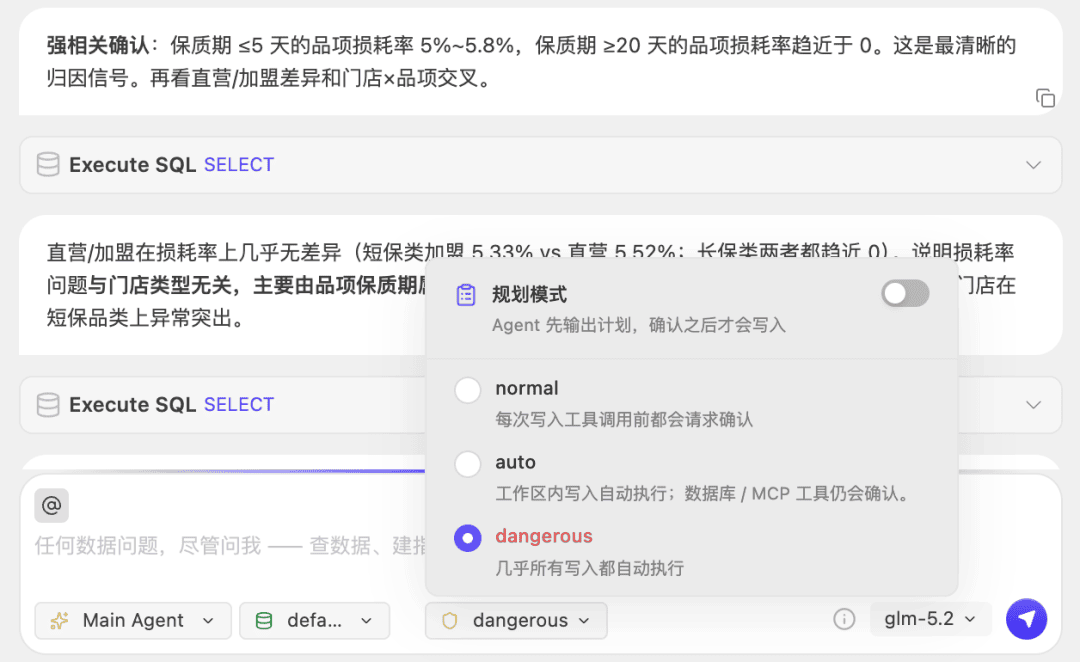
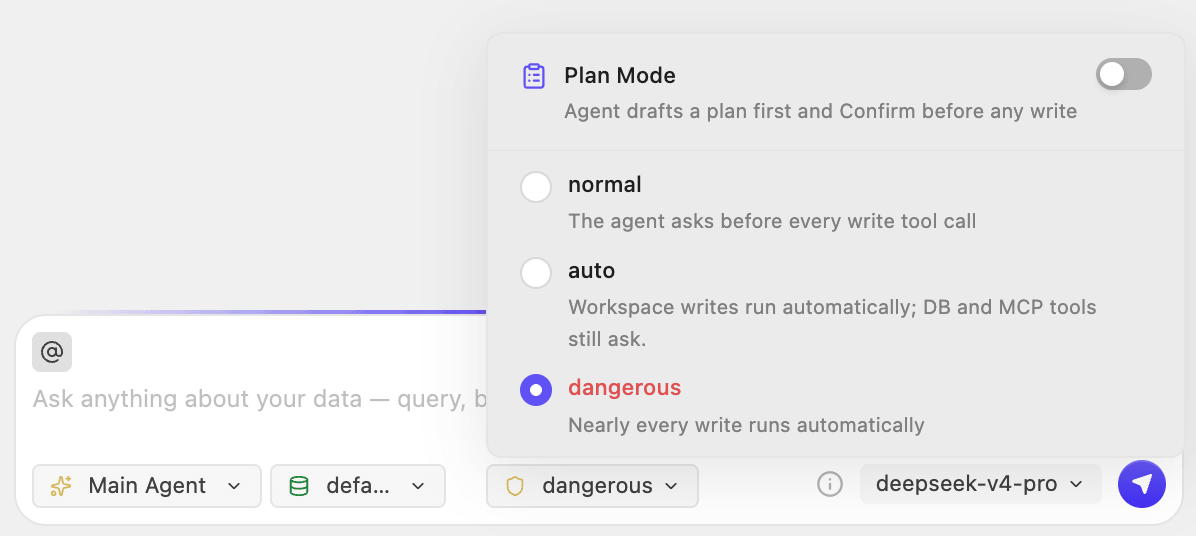
blog: swap in English Datus Studio screenshots for data-agent-sandbox

diff --git a/blog/posts/data-agent-sandbox.md b/blog/posts/data-agent-sandbox.md
@@ -69,9 +69,9 @@ A data engineering agent faces far too many systems. On one side we use adaptors
 
 So Datus puts these capabilities into plugins. This demo loaded the Flink, Kubernetes/ACK and S3 plugins. A plugin can wrap basic database operations, and it can equally turn a remote API or a cloud service interface into a local tool the agent can call stably, while making the context, namespace, bucket, permission level and structured return explicit.
 
-![The Datus workbench plugin selection step, with a list of installable plugins including adls, airflow-plugin, aks, aliyun-ack, datus-plugin-demo, eks, emr, emr-serverless and flink, three of them checked with version selectors and a configure button](/images/data-agent-sandbox/plugin-selection.png)
+![The Plugins page under Integrations in a Datus StarRocks workspace, listing installable plugins — adls, airflow-plugin, aks, aliyun-ack, datus-plugin-demo, eks, emr, emr-serverless, flink — with airflow-plugin, aliyun-ack and flink checked, each showing a version selector and a Configure button](/images/data-agent-sandbox/plugin-selection.png)
 
-*Plugins are installed into a project's agent execution environment and can be changed at any time afterwards.*
+*Plugins are installed into a project's agent runtime, and can be changed later.*
 
 When the agent calls Kubernetes, for example, it knows which ACK context and which namespace it should be in, and whether it should be reading pod status or FlinkDeployment status; when it operates object storage, permissions can be restricted to a specified bucket and artifact path. Different subagents can also load different prompts, skills and tool sets per task.
 
@@ -103,9 +103,9 @@ Human attention should be concentrated on the plan at the start of a task, and o
 
 At the beginning, get the goal, the constraints and the acceptance criteria clear; in the middle, the agent explores, develops, deploys and diagnoses by itself; at the end, the human looks at the result, the diff and the validation, and decides whether to merge into production. For genuinely long-horizon tasks I think this fits how people work far better than popping confirmations continuously.
 
-![A Datus mission board thread where the project agent asks the requester to confirm two open definition questions — how to segment customers given there is no ready-made field, and how to define online-channel revenue on raw_orders — with the human answering to go ahead, the mission moving from clarifying to pending, and a choice between doing it manually in the workspace or handing it to the agent to run in the sandbox](/images/data-agent-sandbox/mission-board-sandbox.png)
+![A Datus mission board thread on a demo board: the agent shows the SQL it ran against jeff_shop_live.raw_orders, then the orchestrator reports that re-checking against the live source confirmed the earlier finding rather than changing it — same 640 orders and GMV, same store distribution — and notes nothing is finalized until the human accepts the answer, while the mission state moves from Clarifying to Todo to Running](/images/data-agent-sandbox/mission-board-sandbox.png)
 
-*Clarify first, then decide: run it by hand in the workspace, or hand it to an agent in the sandbox.*
+*The agent re-checks its own finding and states what it did; the mission advances on its own, but nothing is final until a human accepts it.*
 
 For tasks running ten minutes or longer, we now also keep the plan/todo and the execution state of every step. A human can interrupt partway through and add constraints, but does not have to watch the screen the whole time. What really needs reviewing at the end is which changes the agent made, what the validation results were, and whether this change should go into the trunk.
 

diff --git a/.claude/skills/datus-blog/memory/covered-topics.md b/.claude/skills/datus-blog/memory/covered-topics.md
@@ -520,7 +520,7 @@ Data Contract, Medallion Architecture, Change Data Capture.
 - Key sources: docs.datus.ai/0.3/plugin/introduction/ (allow/ask/deny; normal/auto/dangerous); paimon.apache.org/docs/master/maintenance/manage-branches/ (create/delete/read-write/fast-forward/fallback — no merge); iceberg.apache.org/docs/latest/branching/; dosi.datus.ai
 - Internal links added: what-is-lakehouse, what-is-apache-iceberg, mcp-data-engineering, make-data-agents-truly-usable-ask-explore-and-control-with-confidence, enterprise-data-engineering-agent, why-ai-agents-need-semantic-context-to-work-reliably
 - Reciprocal links added from: enterprise-data-engineering-agent
-- Images: 3 (blog/public/images/data-agent-sandbox/) — Datus Studio screenshots, pngquant-compressed. STILL CHINESE-LOCALE UI: these are evidence, not diagrams, so they must not be redrawn (translating-figures.md §1). Fix = re-capture the three screens with Studio in English; flagged to the operator 2026-09-11
+- Images: 3 (blog/public/images/data-agent-sandbox/) — Datus Studio screenshots, pngquant-compressed. Originally Chinese-locale UI; the operator re-captured all three in English on 2026-09-11 (the correct fix — screenshots are evidence and must never be redrawn, translating-figures.md §1). mission-board-sandbox shows a different moment than the Chinese original, so its alt text and caption were rewritten to match. One Chinese SQL comment (`-- 门店分布`) remains inside that screenshot
 - Fact corrections vs source: "introduced the plugin system a month ago" de-serialized (and the DeepSeek-harness aside dropped); Alibaba Cloud talk framing made timeless; 加小助手 / PPT CTA removed; Paimon's no-merge claim verified against the docs before keeping it
 - Glossary updated: no (no matching /glossary term)
 - Category: "Architecture and pipelines"
